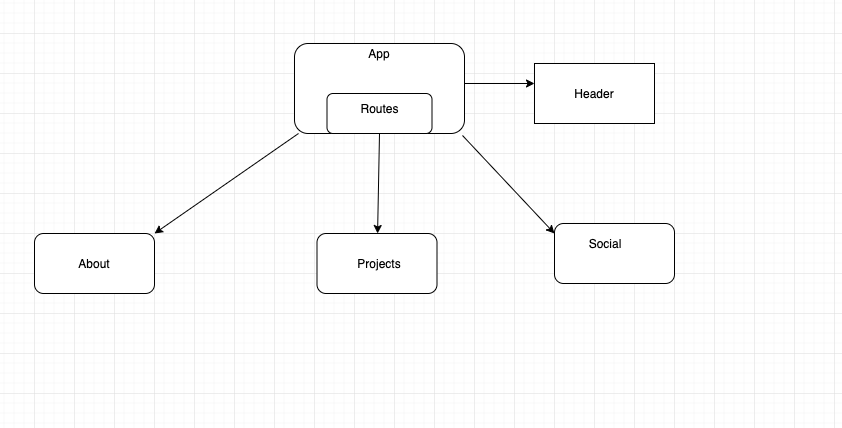
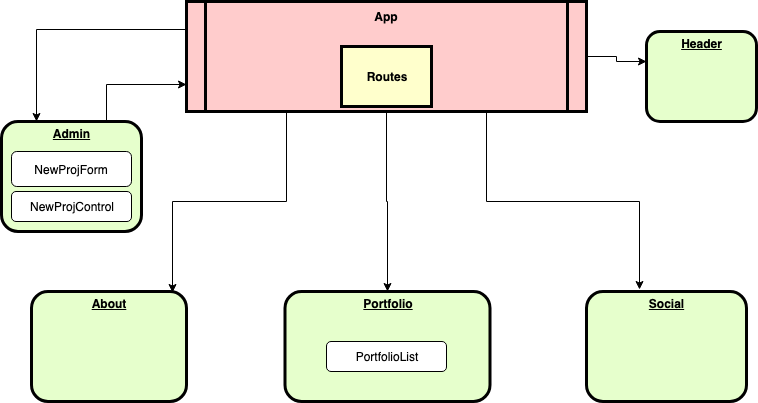
Updated structure tree picture and README

diff --git a/README.md b/README.md
@@ -2,13 +2,11 @@
 
 ## Description
 
-This is my new and updated portfolio using React.
+This is my updated portfolio using React. I added state functionality by creating an 'Admin' component. The admin can update my list of projects by filling out the form and navigating to my 'portfolio' page. The added projects are only held until the page is refreshed. State currently resides in the main app and is passed into PortfolioList and NewProjectControl components
 
 ## Structure
 ![Alt text](src/assets/images/structure.png?raw=true "Title")
 
-## Projection
-I still need to design the pages for projects, social and about. I will also add more dynamic elements"
 
 ## Setup/Installation Requirements to run program
 
